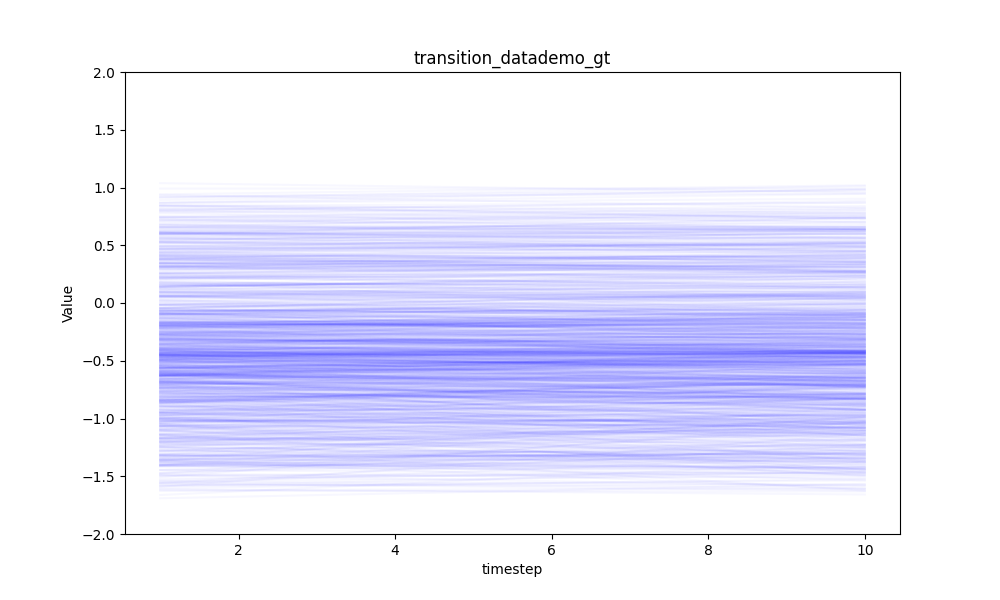
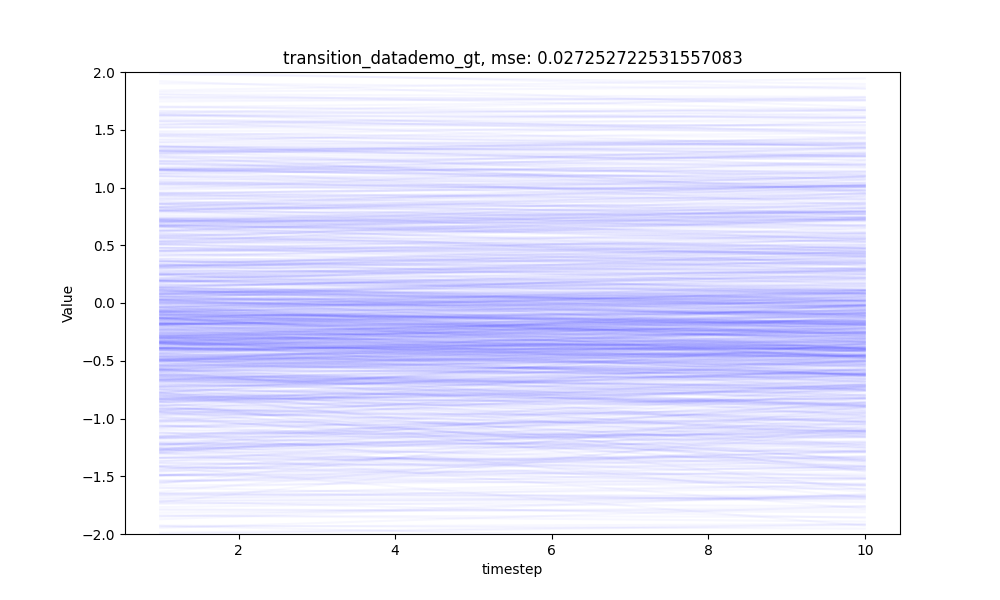
arrange transition visual

diff --git a/tdmpc2/draw_origin_transition.py b/tdmpc2/draw_origin_transition.py
@@ -16,7 +16,7 @@ from sklearn.preprocessing import StandardScaler
 from common.parser import parse_cfg
 from common.seed import set_seed
 from envs import make_env
-from tdmpc2 import TDMPC2_Flow
+from tdmpc2 import TDMPC2
 
 torch.backends.cudnn.benchmark = True
 
@@ -64,7 +64,45 @@ def apply_pca_parameters(data_2, pca_parameters):
     
     return reduced_data_2
 
-@hydra.main(config_name='config_transition_flow1', config_path='configs')
+
+
+def pca_to_1d(data, n_components=1):
+    """
+    将n维数据通过PCA降维到1维，并返回PCA参数。
+    
+    参数:
+    data : numpy.ndarray
+        待降维的数据，形状为 (n_samples, n_features)。
+    n_components : int, 默认为1
+        降维后的目标维度数。
+    
+    返回:
+    pca_parameters : dict
+        PCA模型的参数，包括mean、components_和explained_variance_。
+    reduced_data : numpy.ndarray
+        降维后的数据。
+    """
+    # 标准化数据
+    scaler = StandardScaler()
+    data_normalized = scaler.fit_transform(data)
+    
+    # 初始化PCA模型
+    pca = PCA(n_components=n_components)
+    
+    # 拟合PCA模型并降维数据
+    reduced_data = pca.fit_transform(data_normalized)
+    
+    # 保存PCA模型参数
+    pca_parameters = {
+        'mean': scaler.mean_,
+        'components_': pca.components_,
+        'explained_variance_': pca.explained_variance_
+    }
+    
+    return pca_parameters, reduced_data
+
+
+@hydra.main(config_name='config_plan_origin1', config_path='configs')
 def evaluate(cfg: dict):
     """
     Script for evaluating a single-task / multi-task TD-MPC2 checkpoint.
@@ -95,7 +133,7 @@ def evaluate(cfg: dict):
     env = make_env(cfg)
 
     # Load agent
-    agent = TDMPC2_Flow(cfg)
+    agent = TDMPC2(cfg)
     assert os.path.exists(cfg.checkpoint), f'Checkpoint {cfg.checkpoint} not found! Must be a valid filepath.'
     agent.load(cfg.checkpoint)
     print(colored(f'Checkpoint: {cfg.checkpoint}', 'blue', attrs=['bold']))
@@ -110,26 +148,35 @@ def evaluate(cfg: dict):
     data_next_s = np.asarray(td['next_s'])
     data_a = np.asarray(td['a'])
 
-    predicted_next_x = np.zeros(data_next_s.shape)
+    predicted_next_z = np.zeros(data_next_s.shape)
     obs = data_s / 100.0 * 2 - 1  # norm -> [-1, 1]
     obs[:, -1] = (obs[:, -1] + 1) / 7.0 - 1
+    obs = torch.Tensor(obs).to(agent.device)
+    gt_z = agent.model.encode(obs, task=None)
+    predicted_next_z = np.zeros(gt_z.shape)
     for k in range(obs.shape[0]):
-        s0 = torch.Tensor(obs[k]).unsqueeze(0).to(agent.device)
+        z0 = gt_z[k].unsqueeze(0)
         action = torch.Tensor(data_a[k]).unsqueeze(0).to(agent.device)
-        s = agent.model.next(s0, action, t_step=cfg.consistency_t_step)
-        predicted_next_x[k] = s.cpu().detach().numpy()
-    predicted_next_x = np.stack(predicted_next_x, axis=0)
-    predicted_next_x[:, -1] = (predicted_next_x[:, -1] + 1) * 7. - 1
-    predicted_next_s = (predicted_next_x + 1) * 100 / 2.
+        z = agent.model.next(z0, action, task=None)
+        predicted_next_z[k] = z.cpu().detach().numpy()
+    predicted_next_z = np.stack(predicted_next_z, axis=0)
+    gt_z = gt_z.cpu().detach().numpy()
+    
+    next_obs = data_next_s / 100.0 * 2 - 1  # norm -> [-1, 1]
+    next_obs[:, -1] = (next_obs[:, -1] + 1) / 7.0 - 1
+    next_obs = torch.Tensor(next_obs).to(agent.device)
+    gt_next_z = agent.model.encode(next_obs, task=None).cpu().detach().numpy()
 
-    pca_params = np.load('/inspire/hdd/ws-f4d69b29-e0a5-44e6-bd92-acf4de9990f0/public-project/chenxinyan-240108120066/chenxinyan/tdmpc2/visual/gt_pca_parameters.npy',
-                         allow_pickle=True).item()
-    reduced_s = apply_pca_parameters(data_s[:, 1:], pca_params)
-    reduced_next_s = apply_pca_parameters(predicted_next_s[:, 1:], pca_params)
+    # get params
+    pca_params, reduced_gt_z = pca_to_1d(gt_z, n_components=1)
+    reduced_gt_next_z = apply_pca_parameters(gt_next_z, pca_params)
+    reduced_predicted_next_z = apply_pca_parameters(predicted_next_z, pca_params)
 
+
+    # GT fig
     # transform data
-    x = reduced_s.astype(np.float32).squeeze()
-    y = reduced_next_s.astype(np.float32).squeeze()
+    x = reduced_gt_z.astype(np.float32).squeeze()
+    y = reduced_gt_next_z.astype(np.float32).squeeze()
     mmin, mmax = x.min(), x.max()
     x = (x - mmin) / (mmax - mmin)
     x = x * 4 - 2
@@ -155,11 +202,50 @@ def evaluate(cfg: dict):
         plt.plot(range(1, interp_n+1), x[i], color='blue', alpha=0.03, marker=None)  # 不显示数据点
 
     # 设置图例、标题和标签等（如果需要）
-    plt.title(f'transition_flow_wm, mse: {mse_result}')
+    plt.title(f'transition_origin_plan_gt, mse: {mse_result}')
     plt.xlabel('timestep')
     plt.ylabel('Value')
 
-    plt.savefig('/inspire/hdd/ws-f4d69b29-e0a5-44e6-bd92-acf4de9990f0/public-project/chenxinyan-240108120066/chenxinyan/tdmpc2/visual/transition_flow_wm_tspan3.png')
+    plt.savefig('/inspire/hdd/ws-f4d69b29-e0a5-44e6-bd92-acf4de9990f0/public-project/chenxinyan-240108120066/chenxinyan/tdmpc2/visual/transition_origin_plan_gt.png')
+
+
+
+    # agent fig
+    # transform data
+    x = reduced_gt_z.astype(np.float32).squeeze()
+    y = reduced_predicted_next_z.astype(np.float32).squeeze()
+    mmin, mmax = x.min(), x.max()
+    x = (x - mmin) / (mmax - mmin)
+    x = x * 4 - 2
+    y = (y - mmin) / (mmax - mmin)
+    y = y * 4 - 2
+    from sklearn.metrics import mean_squared_error
+    mse_result = mean_squared_error(x, y)
+    print(f'(s, next_s) MSE: {mse_result}')
+
+    # interp
+    interp_n = 10
+    interped_x = np.zeros((x.shape[0], interp_n))
+    for k in range(x.shape[0]):
+        interped_x[k] = np.linspace(x[k], y[k], interp_n)
+    x = interped_x
+
+    # plot data with color of value
+    plt.figure(figsize=(10, 6))
+    plt.ylim([-2, 2])
+
+    # 绘制每条线
+    for i in range(x.shape[0]):
+        plt.plot(range(1, interp_n+1), x[i], color='blue', alpha=0.03, marker=None)  # 不显示数据点
+
+    # 设置图例、标题和标签等（如果需要）
+    plt.title(f'transition_origin_plan, mse: {mse_result}, mse_loss: {mean_squared_error(reduced_gt_next_z, reduced_predicted_next_z)}')
+    plt.xlabel('timestep')
+    plt.ylabel('Value')
+
+    plt.savefig('/inspire/hdd/ws-f4d69b29-e0a5-44e6-bd92-acf4de9990f0/public-project/chenxinyan-240108120066/chenxinyan/tdmpc2/visual/transition_origin_plan.png')
+
+
 
 
 if __name__ == '__main__':

diff --git a/tdmpc2/trainer/offline_trainer.py b/tdmpc2/trainer/offline_trainer.py
@@ -116,7 +116,7 @@ class OfflineTrainer(Trainer):
         td = TensorDict({k: torch.tensor(v) for k, v in td.items()})
         # norm
         td['s'] = (td['s'] / 100.0) * 2 - 1     # [0,100] -> [-1, 1]
-        obs[-1] = (obs[-1] + 1) / 7.0 - 1
+        td['s'][:, -1] = (td['s'][:, -1] + 1) / 7.0 - 1
         reward_mean = torch.mean(td['r'])
         reward_std = torch.std(td['r'])
         reward_dict = {'mean': reward_mean, 'std': reward_std}
@@ -145,7 +145,7 @@ class OfflineTrainer(Trainer):
             td = TensorDict({k: torch.tensor(v) for k, v in td.items()})
             # norm
             td['s'] = (td['s'] / 100.0) * 2 - 1     # [0,100] -> [-1, 1]
-            obs[-1] = (obs[-1] + 1) / 7.0 - 1
+            td['s'][:, -1] = (td['s'][:, -1] + 1) / 7.0 - 1
             td['r'] = (td['r'] / reward_mean) / reward_std   # (miu=0, sigma=1)
             try:
                 _cfg.episode_length = td.shape[1]

diff --git a/visual/draw_gt_transition.py b/visual/draw_gt_transition.py
@@ -264,5 +264,5 @@ if __name__ == "__main__":
     plt.xlabel('timestep')
     plt.ylabel('Value')
 
-    plt.savefig('./transition_datademo_gt1.png')
+    plt.savefig('./transition_datademo_gt.png')
 
